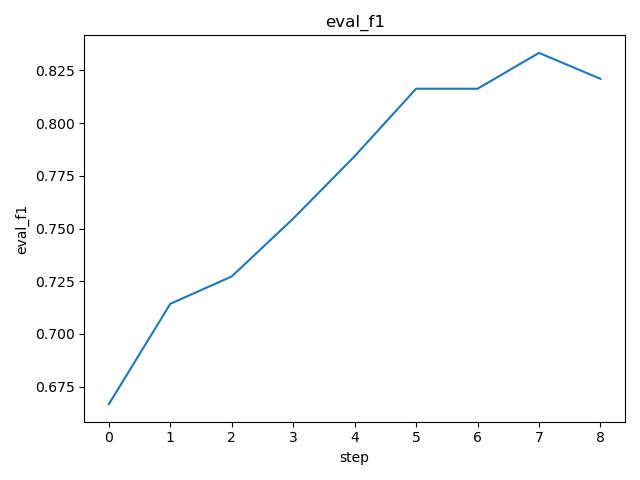
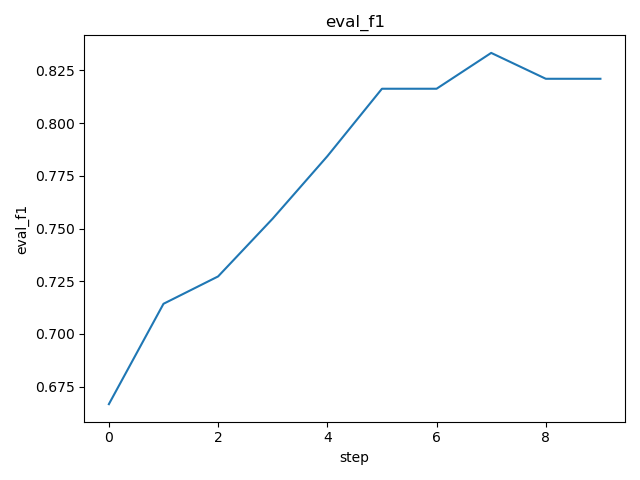
dvc: commit experiment 995c5e9b98645a96a15b44f65ce9b5eb296b671b2b76dc34b5f94c03787a0bfd

diff --git a/data/ogt_protein_classifier/dvclive/report.md b/data/ogt_protein_classifier/dvclive/report.md
@@ -4,7 +4,7 @@ metrics.json
 
 |   loss |   learning_rate |   epoch |   eval_loss |   eval_f1 |   eval_accuracy |   eval_matthew |   eval_runtime |   eval_samples_per_second |   eval_steps_per_second |   step |
 |--------|-----------------|---------|-------------|-----------|-----------------|----------------|----------------|---------------------------|-------------------------|--------|
-| 0.0155 |         3.2e-05 |      18 |    0.764029 |  0.821053 |          0.7875 |       0.620264 |         3.2688 |                    24.473 |                   0.612 |      8 |
+| 0.0108 |           3e-05 |      20 |    0.776268 |  0.821053 |          0.7875 |       0.620264 |         3.2749 |                    24.428 |                   0.611 |      9 |
 
 ![static/eval_steps_per_second](static/eval_steps_per_second.png)
 
